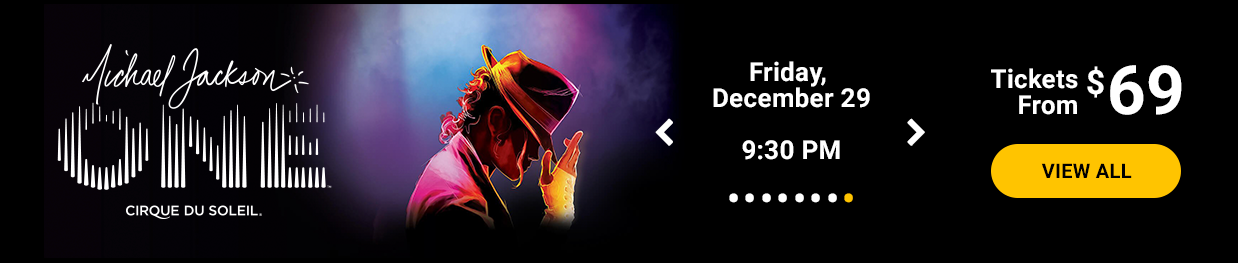
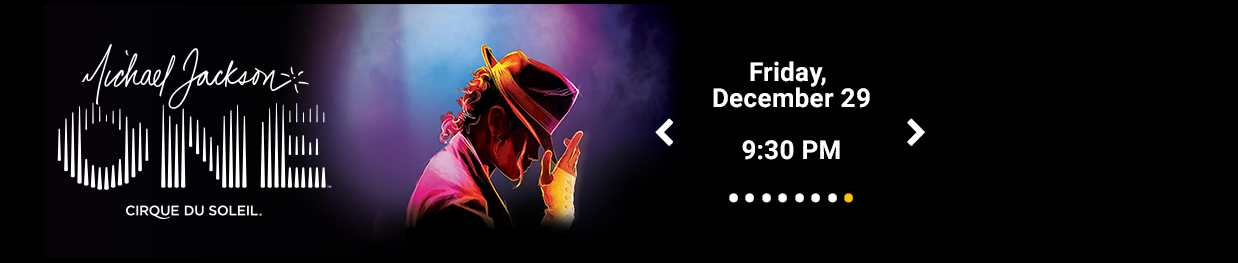
Added button and text to bottom panel

Changed region(s): [[0.7981, 0.5475, 0.9515, 0.7605], [0.7981, 0.2433, 0.9515, 0.4563]]

diff --git a/css/styles.css b/css/styles.css
@@ -34,6 +34,56 @@
   cursor: pointer;
 }
 
+.tickets-from {
+  font-weight: bold;
+  position: absolute;
+  left: 577px;
+  top: 40px;
+  color: #ffffff;
+  text-align: right;
+  width: 75px;
+  line-height: .95em;
+}
+
+.dollar-sign {
+  font-weight: bold;
+  position: absolute;
+  left: 657px;
+  top: 40px;
+  color: #ffffff;
+  font-size: 1.1em;
+}
+
+.price {
+  font-weight: bold;
+  position: absolute;
+  left: 670px;
+  top: 33px;
+  color: #ffffff;
+  font-size: 2.5em;
+}
+
+.view-all {
+  font-size: .8em;
+  font-weight: bold;
+  position: absolute;
+  color: #333;
+  background-color: #fac50e;
+  border: solid 2px #fac50e;
+  padding: 7px;
+  border-radius: 100px;
+  top: 87px;
+  left: 600px;
+  width: 95px;
+  text-align: center;
+  transition: all 200ms ease;
+}
+.view-all:hover {
+  color: #fac50e;
+  background-color: #333;
+  border: solid 2px #666;
+}
+
 #seating-chart {
   left: 743px;
   width: 565px;

diff --git a/index.html b/index.html
@@ -24,7 +24,12 @@
       </div>
     </div>
     <iframe width="743" height="410" src="https://www.youtube.com/embed/Vtn-pnt1ub8?rel=0&amp;showinfo=0" frameborder="0" gesture="media" allow="encrypted-media" allowfullscreen></iframe>
-    <div id="schedule"></div>
+    <div id="schedule">
+      <div class="tickets-from">Tickets From</div>
+      <div class="dollar-sign">$</div>
+      <div class="price">69</div>
+      <div class="view-all">VIEW ALL</div>
+    </div>
     <div id="seating-chart">
       <div id="legend"></div>
       <div id="seating-chart-svg"></div>
